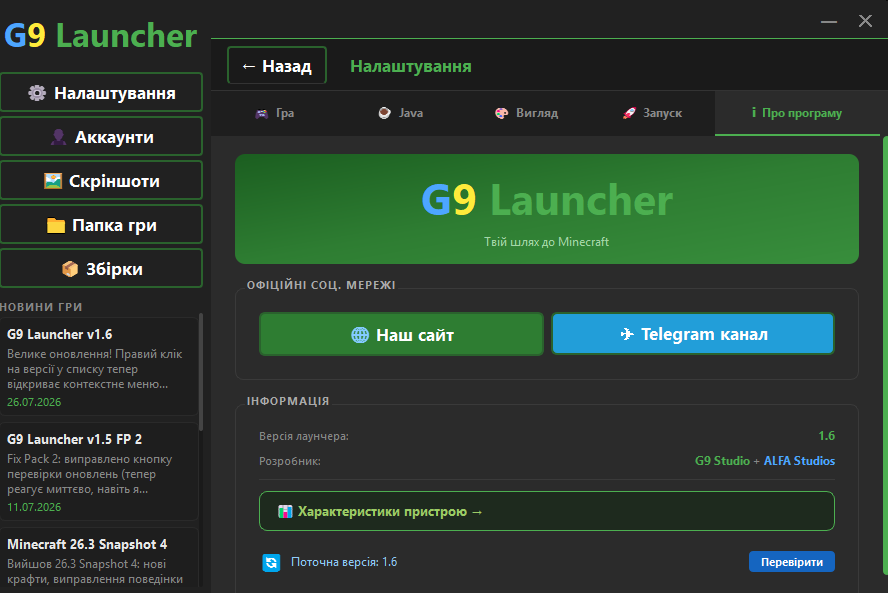
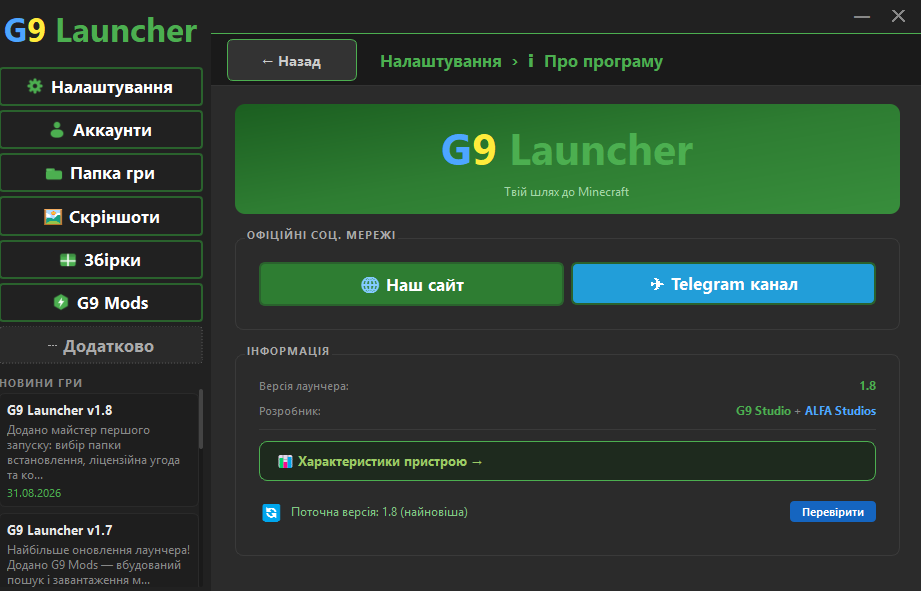
Add files via upload

diff --git a/index.html b/index.html
@@ -1016,8 +1016,12 @@
 <p style="color:var(--text-muted);margin-bottom:2rem;font-size:.95rem;">Останні оновлення, релізи та новини від команди <span style="color:var(--g-blue)">G</span><span style="color:var(--n-yellow)">9</span> Studios.</p>
 <div class="news-list">
 <div class="news-card">
-<div class="news-card-top"><h3><span style="color:var(--g-blue)">G</span><span style="color:var(--n-yellow)">9</span> Launcher v1.7</h3><span class="news-date">25.08.2026</span></div>
+<div class="news-card-top"><h3><span style="color:var(--g-blue)">G</span><span style="color:var(--n-yellow)">9</span> Launcher v1.8</h3><span class="news-date">31.08.2026</span></div>
 <span class="news-badge">Актуальна версія</span>
+<p>Додано майстер першого запуску: вибір папки встановлення, ліцензійна угода та коротка симуляція встановлення при першому старті лаунчера. Тепер лаунчер можна видалити стандартним способом через Параметри Windows / Панель керування («Програми і компоненти»), а також кнопкою «Видалити лаунчер» у Налаштуваннях — з підтвердженням перед видаленням. Прямо у лаунчері вибирай скіни! Нове меню вибору версії, досягнення та багато пригод чекають на вас!</p>
+</div>
+<div class="news-card">
+<div class="news-card-top"><h3><span style="color:var(--g-blue)">G</span><span style="color:var(--n-yellow)">9</span> Launcher v1.7</h3><span class="news-date">25.08.2026</span></div>
 <p>Найбільше оновлення лаунчера! Додано G9 Mods — вбудований пошук і завантаження модів прямо з Modrinth та CurseForge. З'явився Менеджер світів: перегляд усіх світів, копіювання сіда, окреме скидання Незеру/Енду та бекап світу в ZIP. Новий переглядач скриншотів на весь екран з поширенням знімків. Додано вхід через ліцензійний Microsoft-акаунт. Тепер лаунчер веде статистику ігрового часу по збірках та серверах. З'явились AI Power Manager (еко-режим на батареї) та AI Memory Manager (очищення сміття лаунчера). Можна перетягуванням змінювати порядок кнопок бокової панелі та ділитися збірками через спеціальні коди. Discord-статус тепер показує лоадер і назву збірки. Автооновлення переведено на новий сервер.</p>
 </div>
 <div class="news-card">
